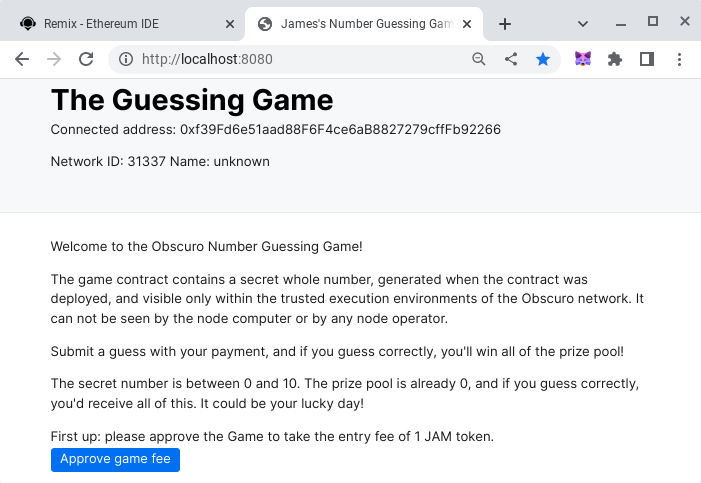
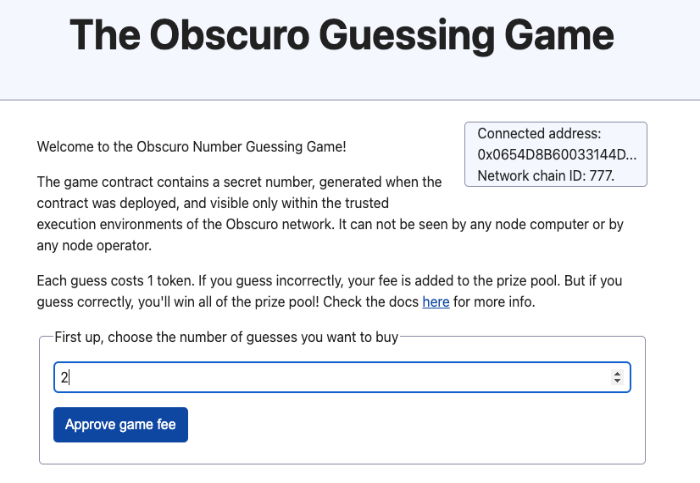
Updated readme

Changed region(s): [[0.0, 0.0, 1.0, 0.528], [0.03, 0.559, 0.93, 0.9938]]

diff --git a/number-guessing-game/README.md b/number-guessing-game/README.md
@@ -73,23 +73,35 @@ and seek connection wth the end-user account. You should approve this.
 
 ![Metamask connect](./readme-images/metamask-connect.png)
 
-3. After connection, the user interface should now show the contract address, the range of the random number, and the 
-number of guesses so far.
+3. After connection, the user interface should now show the address of the game contract and be ready to play. Before 
+playing you must approve the ERC20 contract to allow the game to spend your tokens, using the approve facility on the 
+user interface. 
 
 ![App UI initial](./readme-images/app-ui-initial.png)
 
-4. Approve the game for the number of guesses you want to perform, and have a go at guessing the number!
+4. Approve the game for the number of guesses you want to perform.
 
-![Metamask guess](./readme-images/metamask-guess.png)
+![Metamask approve](./readme-images/metamask-approve-ogg.png)
+![App UI approve response](./readme-images/app-ui-approve-ogg.png)
+
+5. Submit a guess and see if you're correct!
+
+![Metamask submit guess](./readme-images/metamask-approve-play.png)
+![App UI approve response](./readme-images/app-ui-play.png)
 
 ## Transitioning to Obscuro Testnet
 Because Obscuro uses the same tools and EVM as Ethereum itself, it should be possible to replay the previous steps with 
-Obscuro's Testnet.
+Obscuro's Testnet. As Testnet is not ephemeral for running development like HardHat, you should update the keys to use 
+in the [network config](./config/networks.json) file to values unique to you. 
 
 1. Set up Metamask with the Obscuro network as described [here](https://docs.obscu.ro/wallet-extension/configure-metamask).
 
 2. Start up the wallet extension as described [here](https://docs.obscu.ro/wallet-extension/wallet-extension/) and
-generate a viewing key for both the application developer and end user accounts.
+generate a viewing key for both the end user accounts and application developer accounts. Note that it is important 
+at the moment that the end user is registered before the application developer due to the way event relevancy checks
+are performed when multiple accounts are registered through a single wallet extension. Because the wallet extension 
+persists viewing keys locally you may want to delete the persistence file at `~/.obscuro/wallet_extension_persistence`
+before starting the wallet extension, and re-register the keys in the correct order. 
 
 ![Wallet start](./readme-images/wallet-start.png)
 
@@ -100,20 +112,12 @@ then request the user to sign a "generate viewing key" transaction.
 
 4. Request OBX funds for the two accounts using the [token faucet](https://docs.obscu.ro/testnet/faucet/).
 
+![Faucet](./readme-images/faucet-allocate.png)
+
 5. Deploy the contracts to the Obscuro Testnet using `npx hardhat deploy --network obscuro`. Take a note of the contract
 addresses from the console. 
 
 6. Confirm and update the contract addresses `ERC20_ADDRESS` and `GUESS_ADDRESS` in [index.ts](./src/index.ts).
 
-7. Start the user interface for the game, and click on the "Approve game fee" button to allow the Guess contract to take
-the game entrance fee from the end-user's account. Metamask will ask for the end user account to sign a transaction to call 
-the `approve` function, specifying the Guess contract address as the delegate.
-
-![Metamask approve](./readme-images/wallet-approve-testnet.png)
-
-8. Finally, have a go at guessing the number! Note how the data presented by Metamask to the user is not yet encypted: 
-that happens when Metamask signs the transaction and sends it to the wallet extension "network", allowing the wallet 
-extension to encrypt it.
-
-![Metamask guess](./readme-images/wallet-guess-testnet.png)
+7. Follow the steps as described previously to approve tokens to the game, and to make a guess!
 
